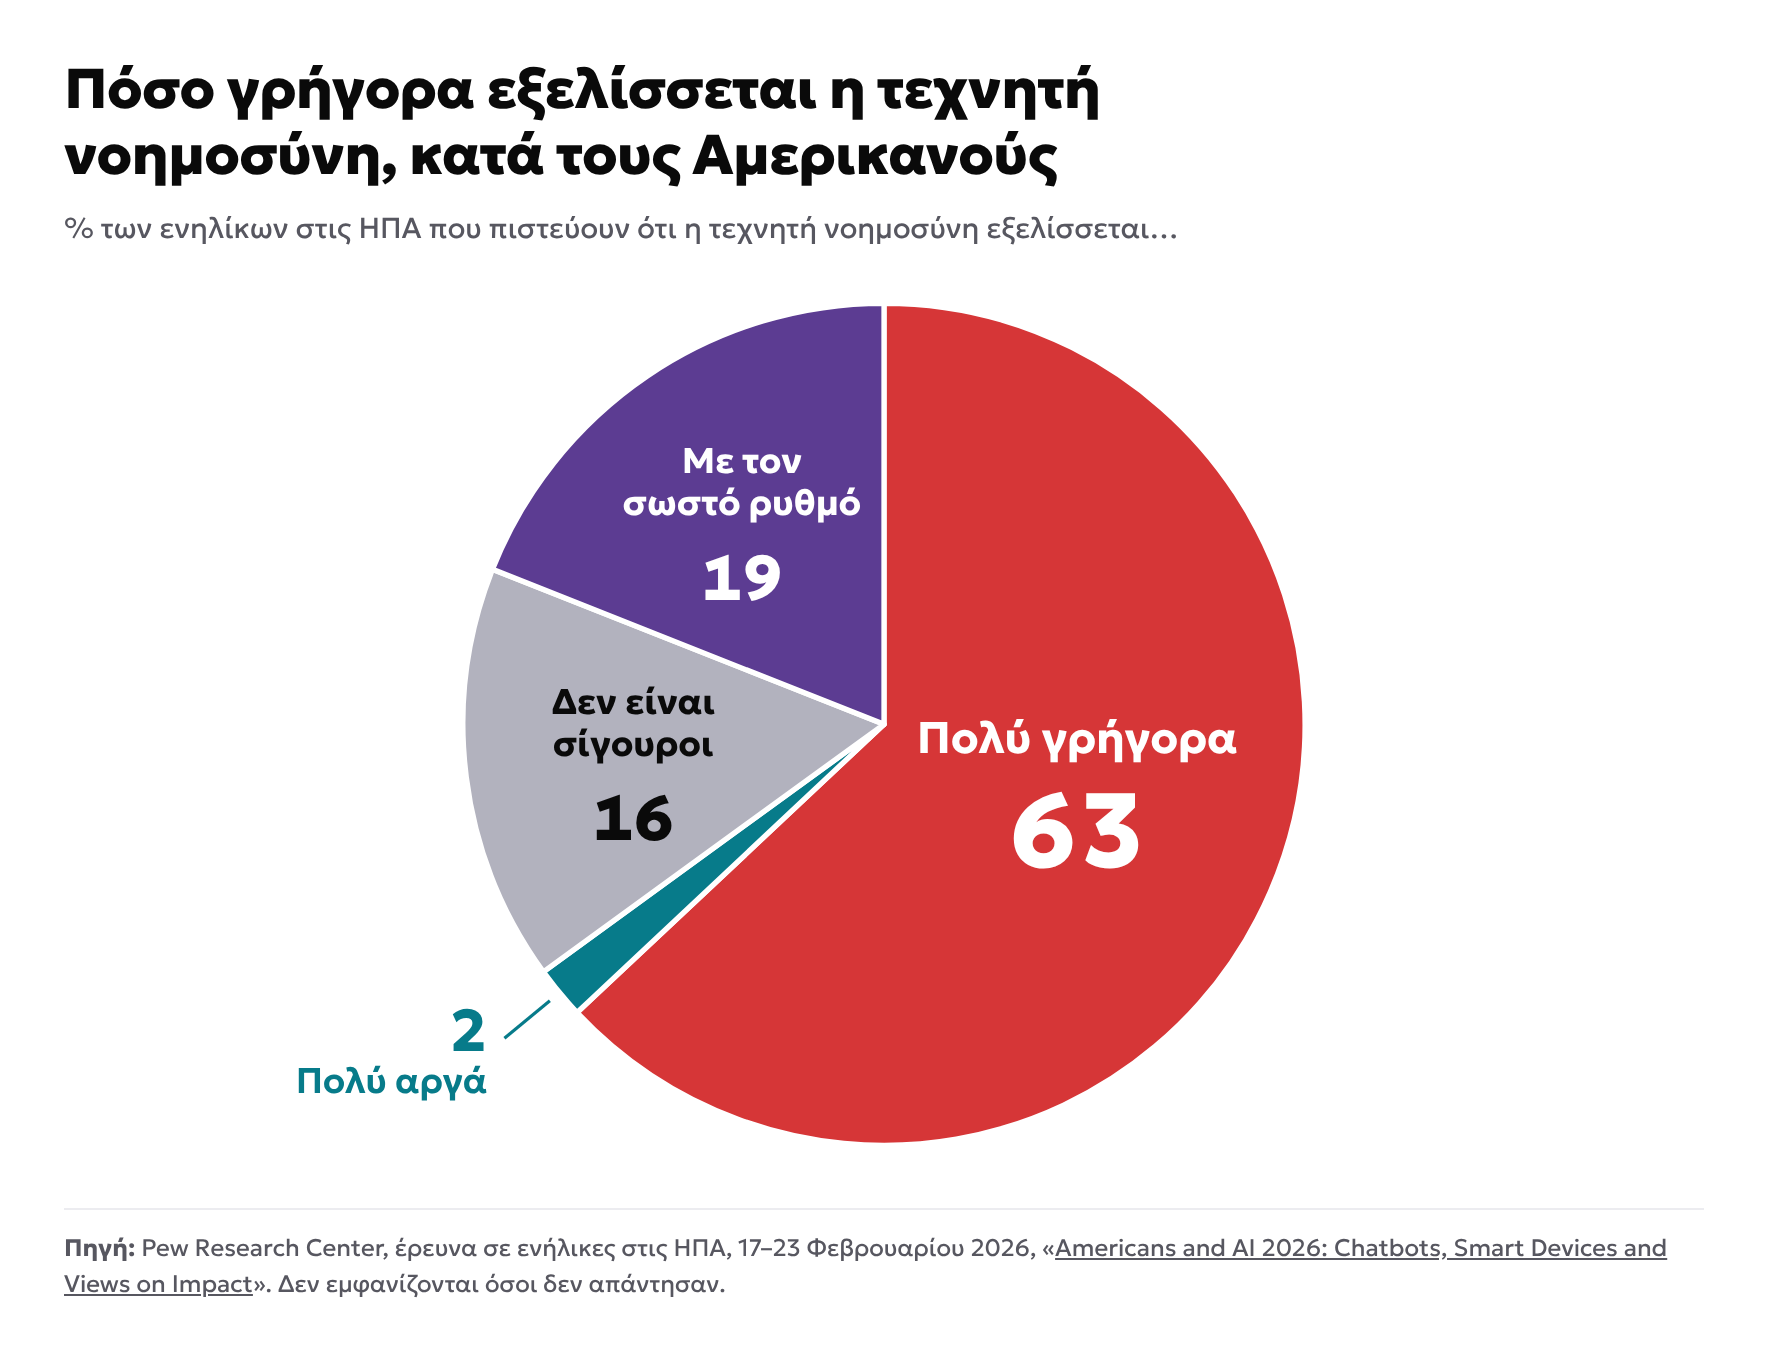
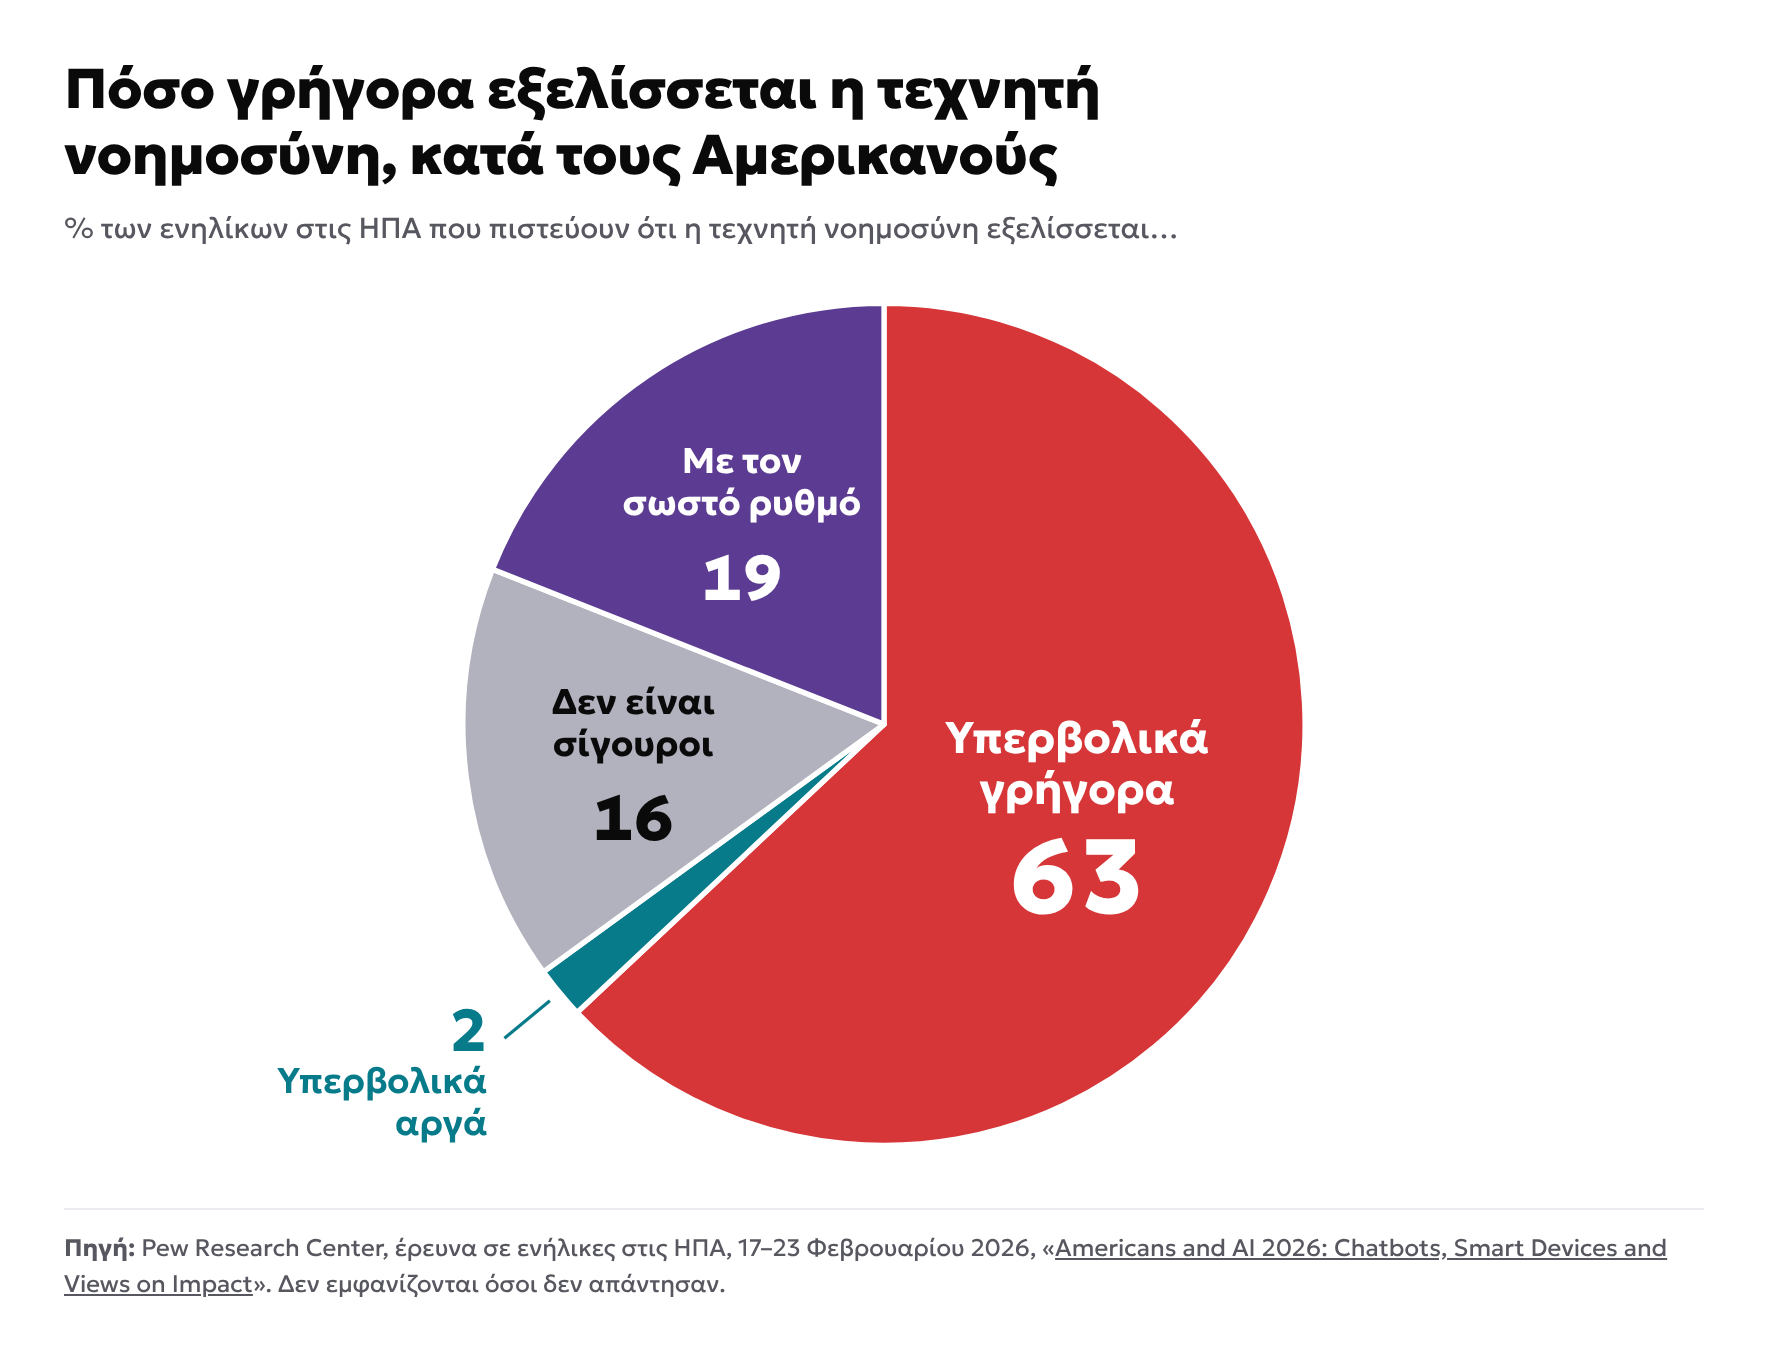
Add files via upload

Changed region(s): [[0.4977, 0.5204, 0.7155, 0.6735], [0.1555, 0.7653, 0.28, 0.8265]]

diff --git a/ai-pace-americans-2026/index.html b/ai-pace-americans-2026/index.html
@@ -74,7 +74,7 @@ const DATA=[["quick",63],["slow",2],["unsure",16],["right",19]];
 const T={
  el:{title:"Πόσο γρήγορα εξελίσσεται η τεχνητή νοημοσύνη, κατά τους Αμερικανούς",
      dek:"% των ενηλίκων στις ΗΠΑ που πιστεύουν ότι η τεχνητή νοημοσύνη εξελίσσεται…",
-     lab:{quick:"Πολύ γρήγορα",slow:"Πολύ αργά",unsure:"Δεν είναι σίγουροι",right:"Με τον σωστό ρυθμό"},
+     lab:{quick:"Υπερβολικά γρήγορα",slow:"Υπερβολικά αργά",unsure:"Δεν είναι σίγουροι",right:"Με τον σωστό ρυθμό"},
      foot:'<p><b>Πηγή:</b> Pew Research Center, έρευνα σε ενήλικες στις ΗΠΑ, 17–23 Φεβρουαρίου 2026, «<a href="https://www.pewresearch.org/chart/roughly-two-thirds-of-americans-say-ai-is-advancing-too-quickly/" target="_blank" rel="noopener">Americans and AI 2026: Chatbots, Smart Devices and Views on Impact</a>». Δεν εμφανίζονται όσοι δεν απάντησαν.</p>'},
  en:{title:"How fast Americans think artificial intelligence is advancing",
      dek:"% of U.S. adults who say they think AI is advancing…",
